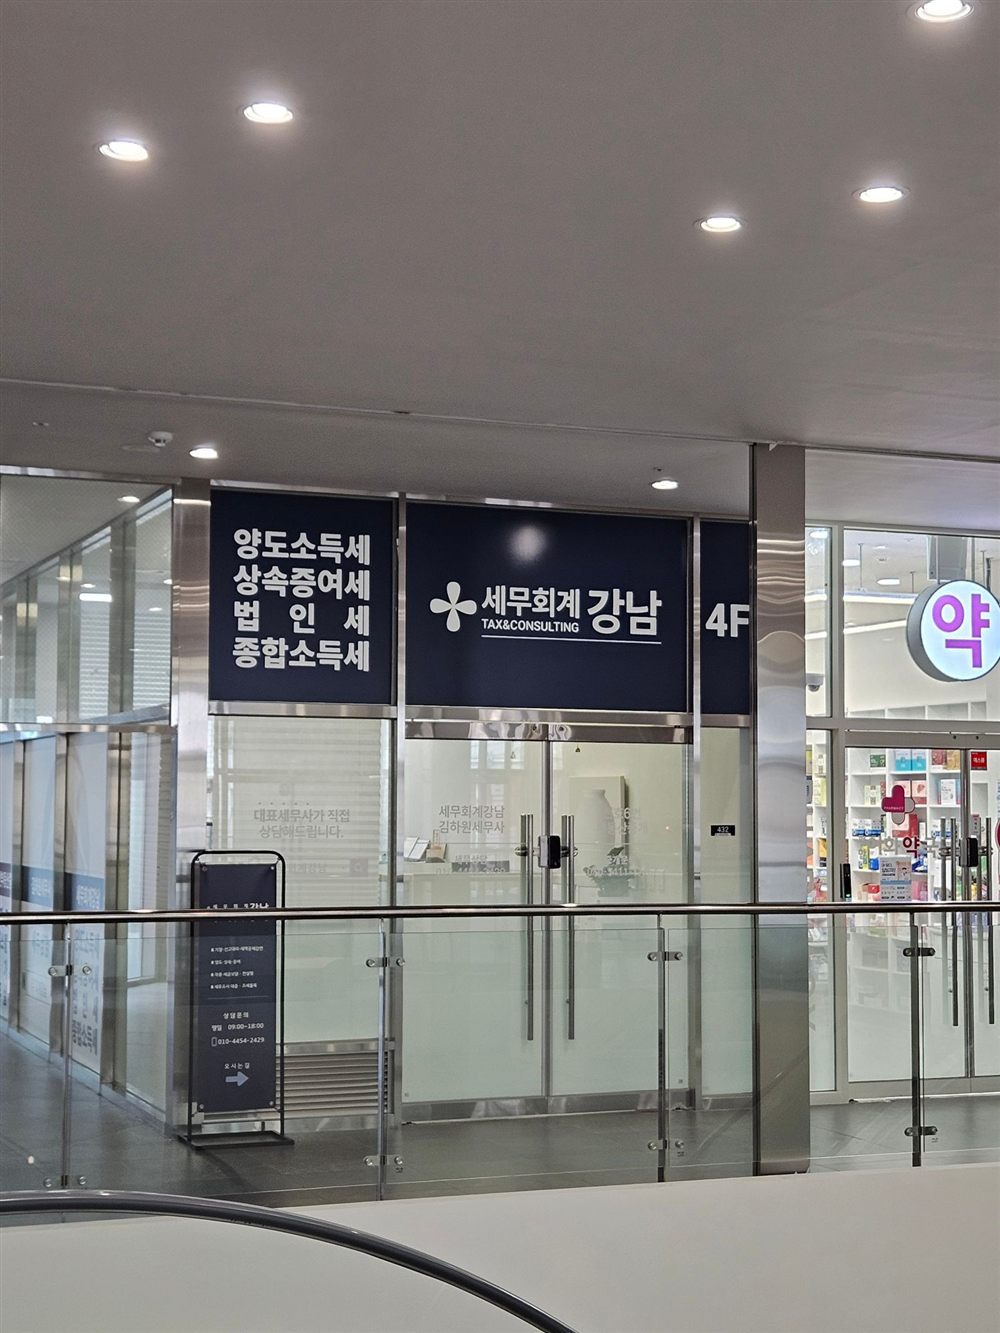
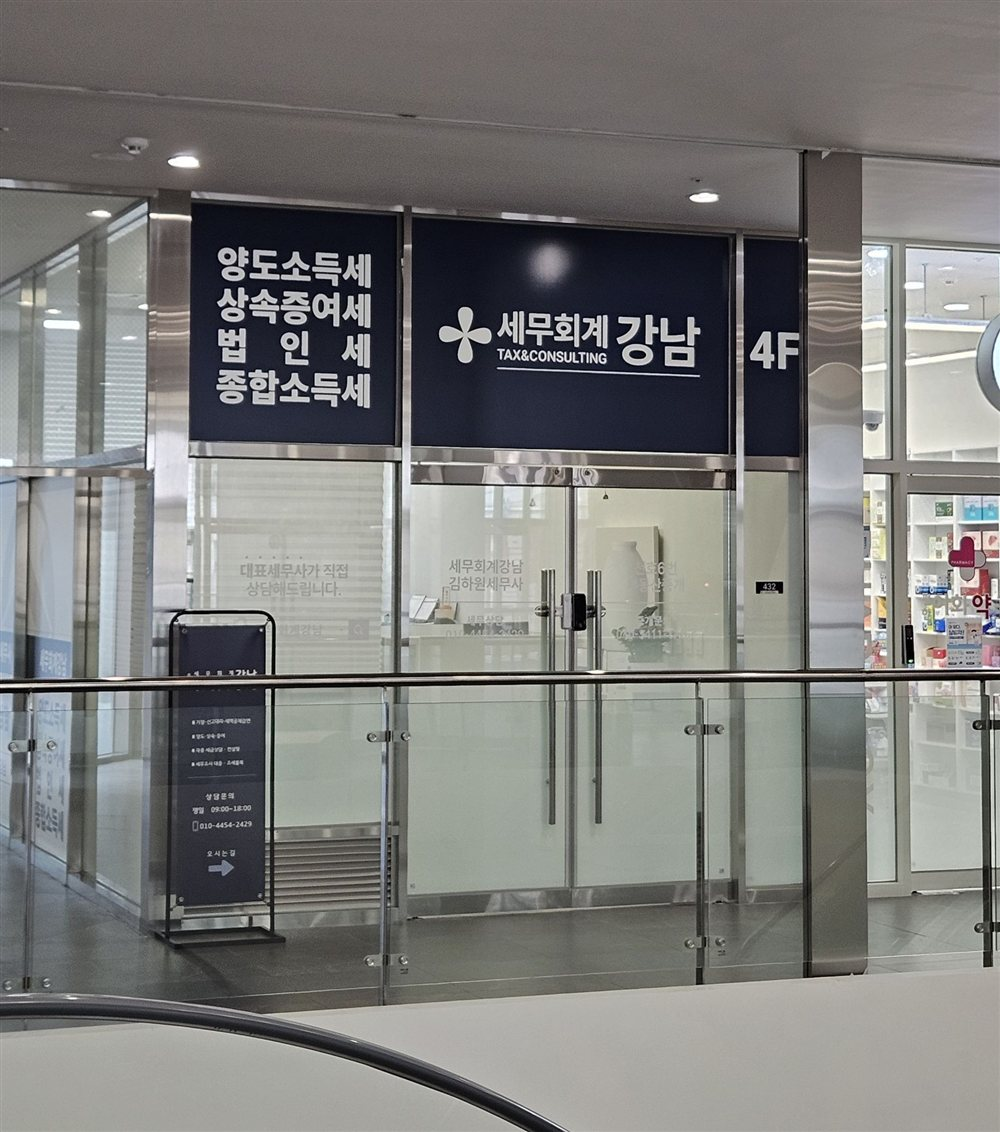
오시는 길: 사무실 입구 사진 교체

diff --git a/index.html b/index.html
@@ -328,7 +328,7 @@
                     <figcaption>건물 외부 간판 · 4층</figcaption>
                 </figure>
                 <figure>
-                    <img src="images/office-entrance.jpg" alt="세무회계강남 사무실 입구 (4층 432호)" loading="lazy">
+                    <img src="images/office-entrance.jpg?v=2" alt="세무회계강남 사무실 입구 (4층 432호)" loading="lazy">
                     <figcaption>사무실 입구 · 432호</figcaption>
                 </figure>
                 <dl class="location-info">
